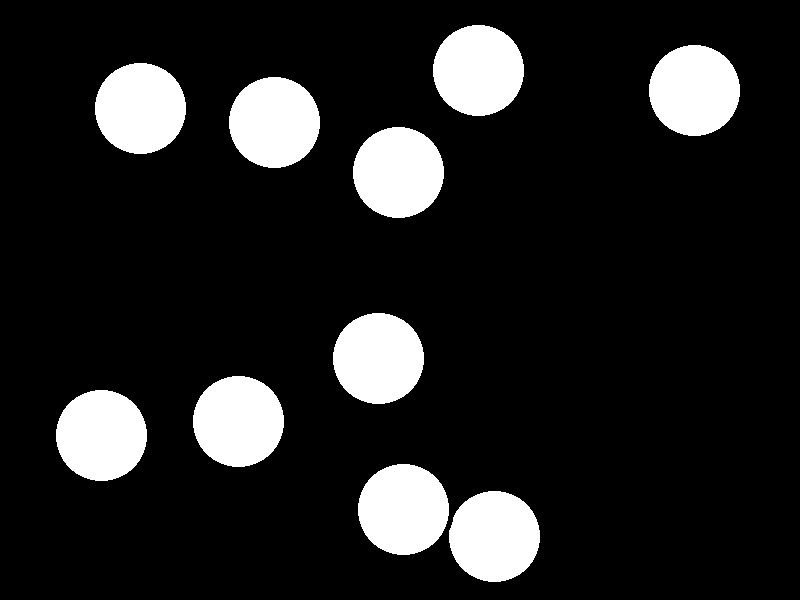
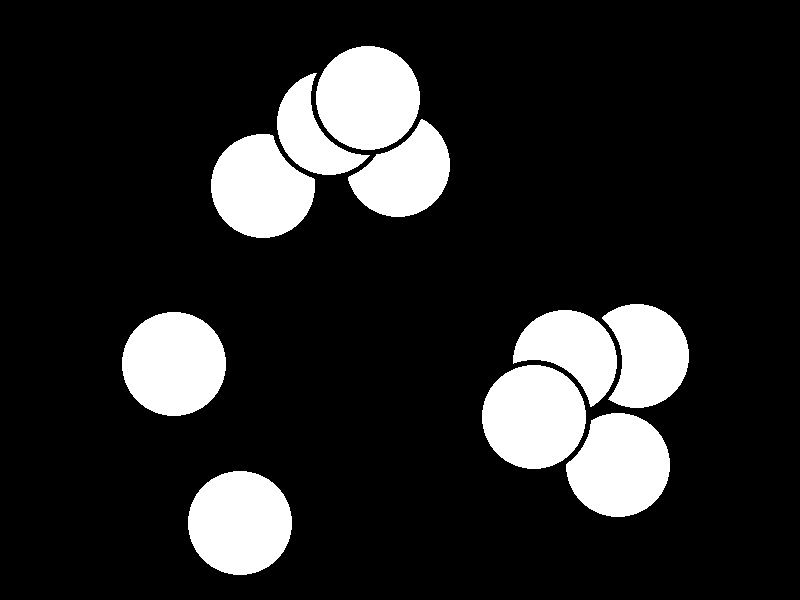
ajout readme semaine 3 cyril

diff --git a/Osu!Learn/Code/circleDetection/main.py b/Osu!Learn/Code/circleDetection/main.py
@@ -32,5 +32,9 @@ def circlesDetection():
 
 tr = Trainer()
 print(tr.createImg((800,600),False, 10))
-edgesDetection()
-#circlesDetection()
+
+# Commenter/décommenter l'un ou l'autre pour choisir entre
+# la détection de cercle ou la détection de bordures
+
+#edgesDetection()
+circlesDetection()

diff --git a/TravailParSemaine/semaine3/semaine3.md b/TravailParSemaine/semaine3/semaine3.md
@@ -44,3 +44,6 @@ Fonctions :
 #### Créer un script pour que le curseur reste dans la fenêtre du jeu :  
   -[curseur.py](../../Osu!Learn/Code/utilitaire/curseur.py) qui permet que le curseur reste dans la fenêtre du jeu
   
+### Script détection de cercles et bordures (LAVEYSSIERE Cyril) :
+	[Script](../Osu!Learn/Code/circleDetection) d'essais pour détection de cercles et bordures pour mesurer le temps de calcul avec openCV.
+	-> temps de calcul de l'ordre du centième de seconde, essayer de remplacer par un réseau de neurones
